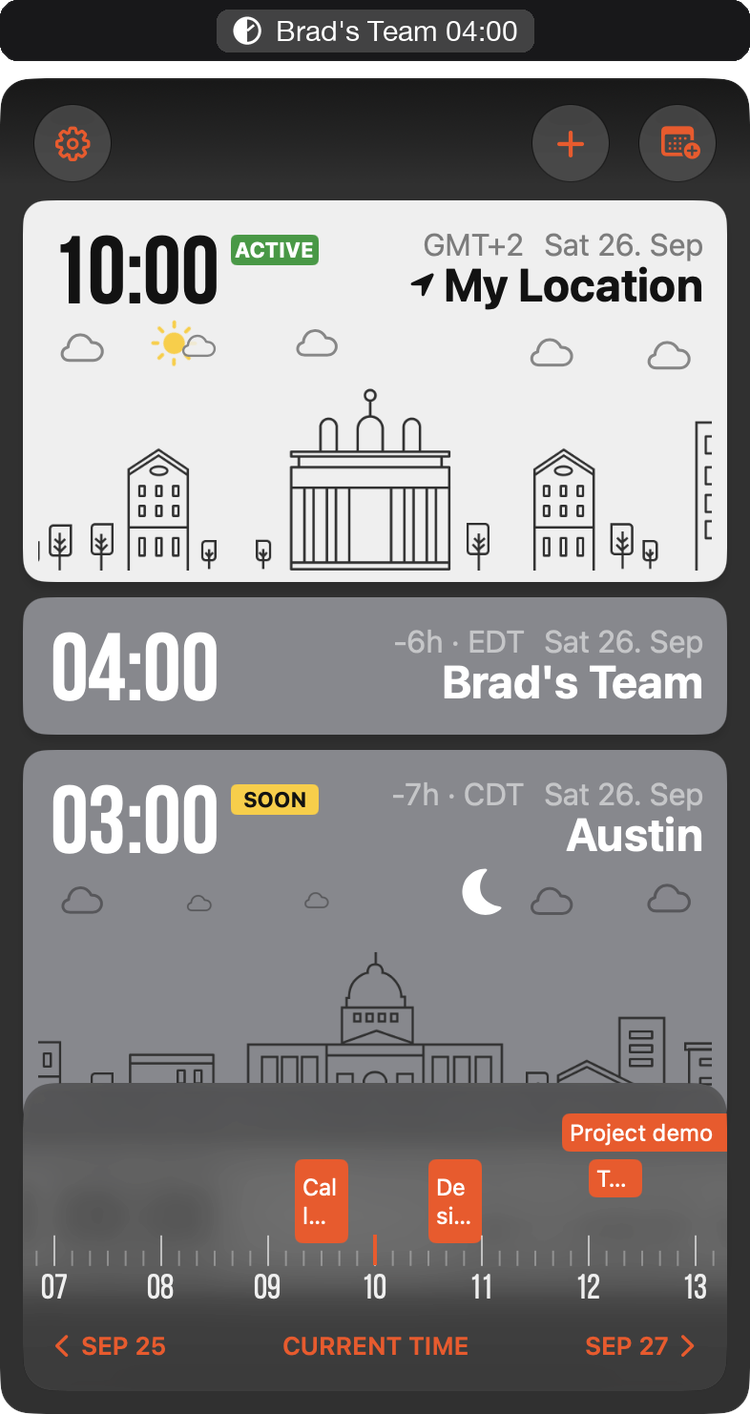
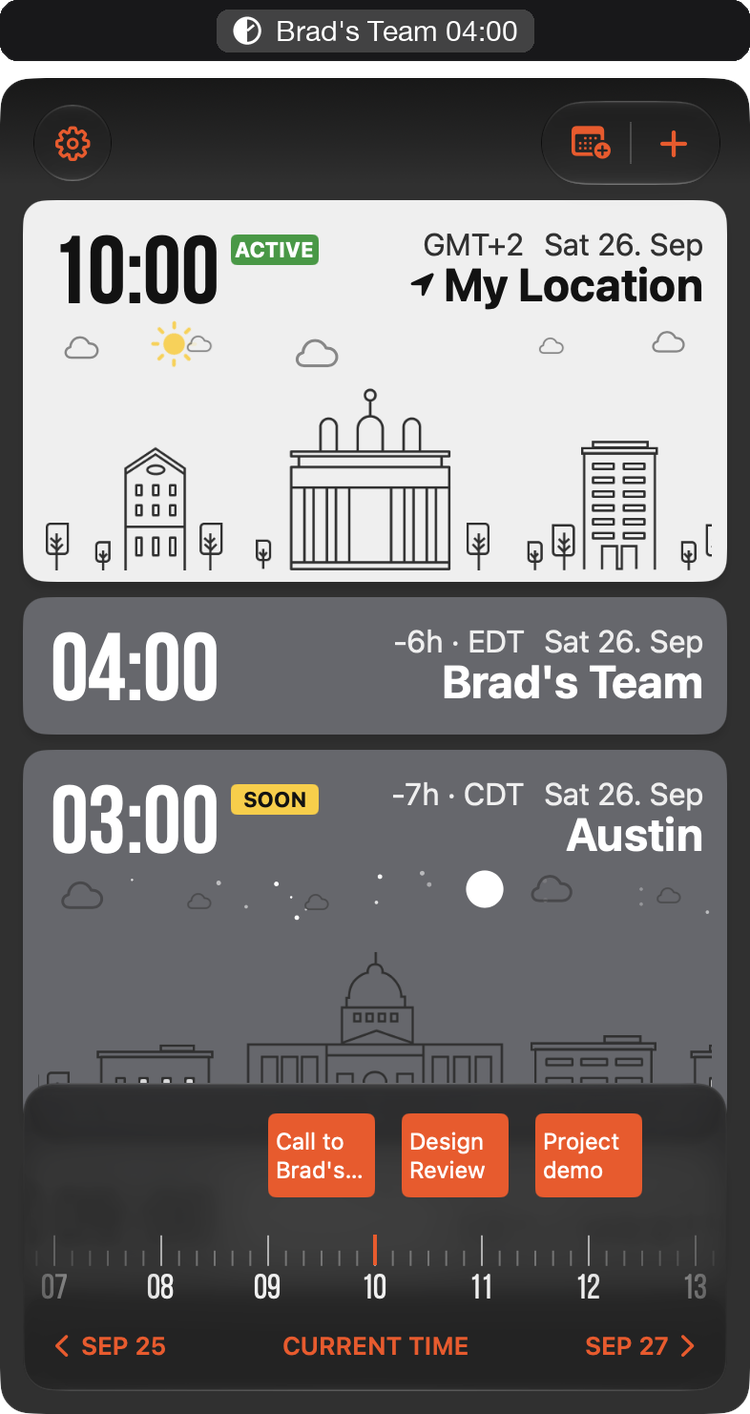
Mac image: new top bar and events layout

diff --git a/sw.js b/sw.js
@@ -1,4 +1,4 @@
-const CACHE = 'tempus-v11';
+const CACHE = 'tempus-v12';
 /* Resolve paths relative to this script so GitHub Pages project URLs (/repo/) work. */
 const base = new URL('./', self.location.href).href;
 const ASSETS = [
